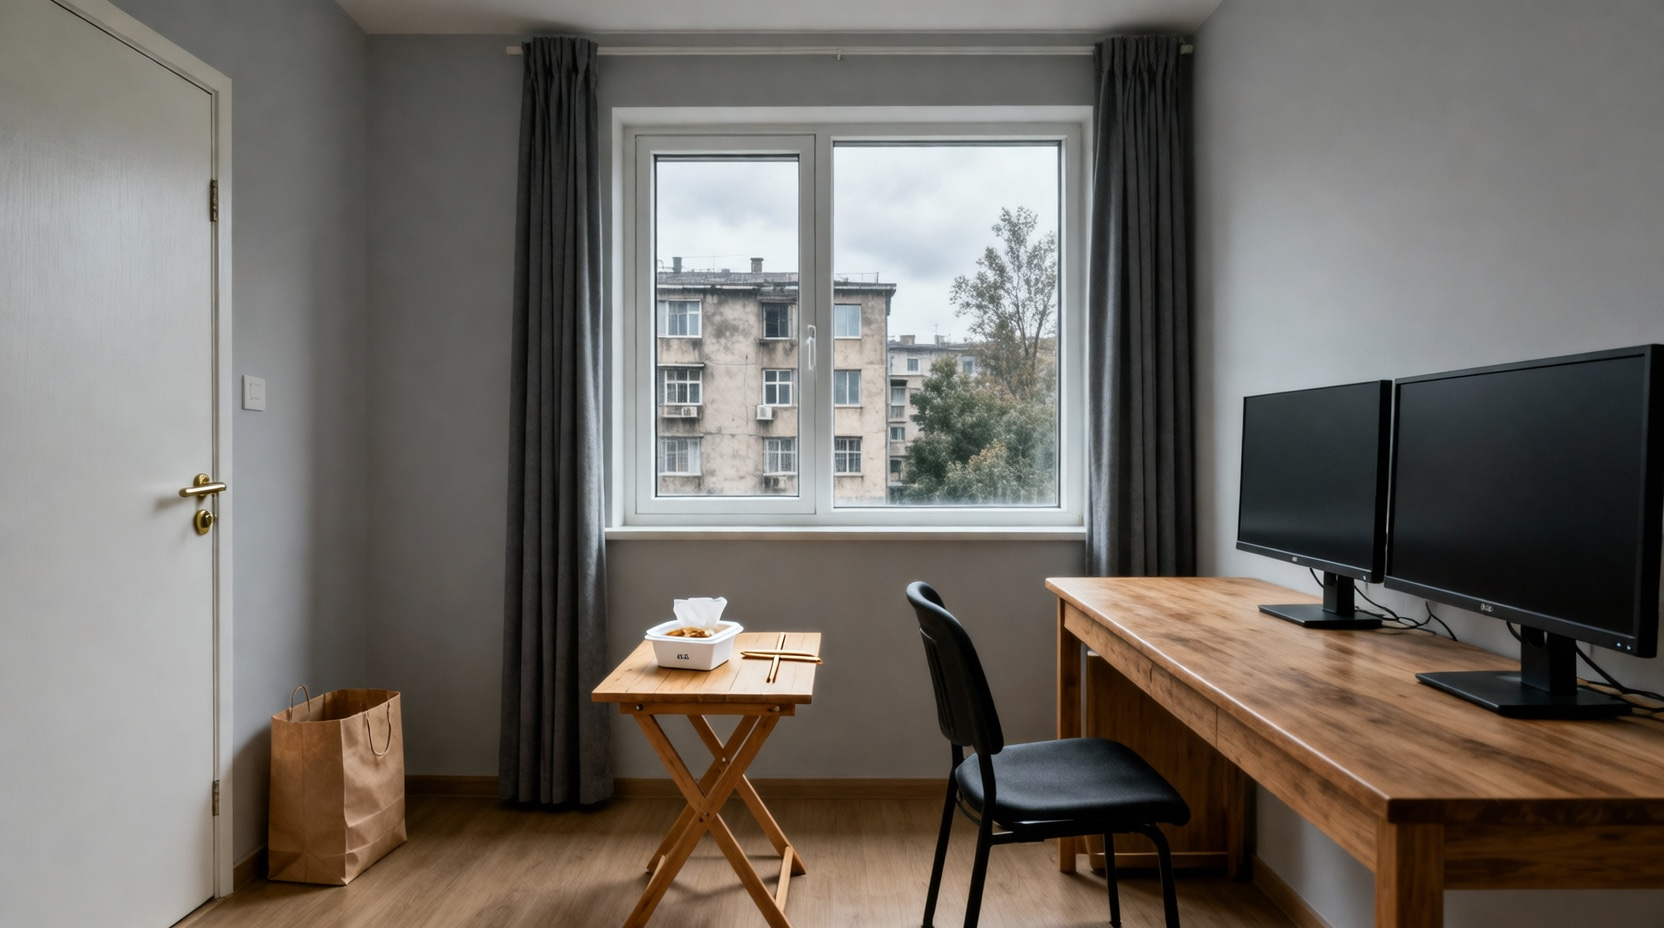
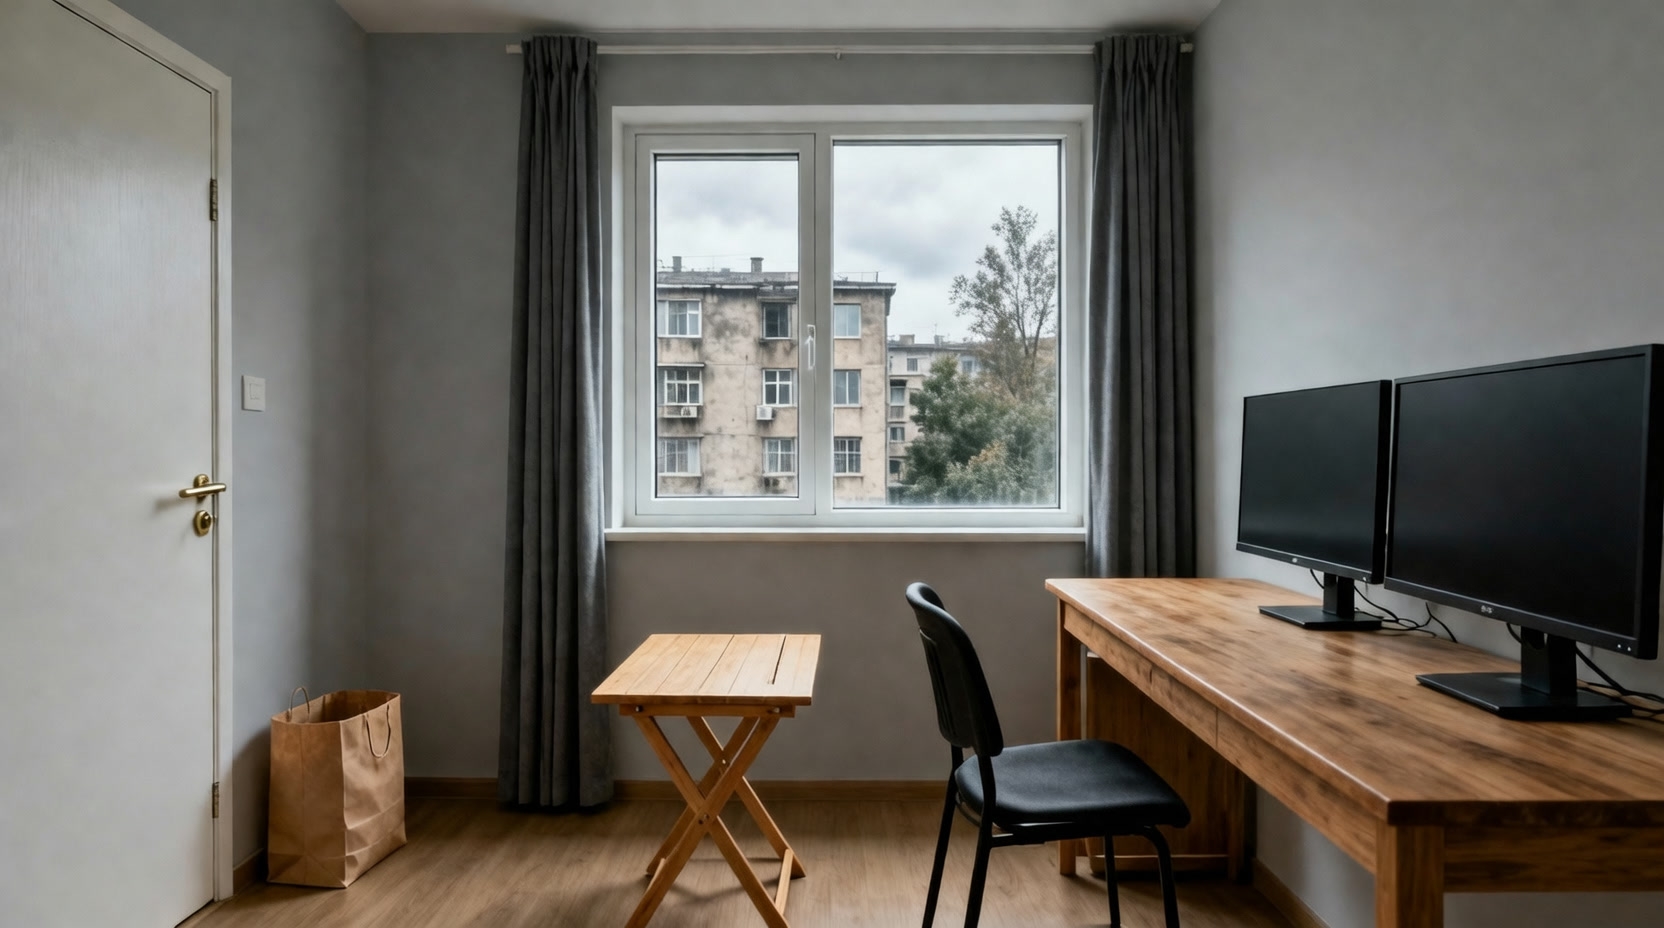
Playtest 11-05 (author, day 1): content fixes (transcript on time, no 'day four hundred', room looks, onboarding/settings strings, empty meal table) + playtest-1105 spec for Kiro; one content-only snapshot refreshed

diff --git a/.kiro/specs/playtest-1105/requirements.md b/.kiro/specs/playtest-1105/requirements.md
@@ -1,0 +1,49 @@
+# playtest-1105 — requirements (2026-11-05, the author's first real play of day 1)
+
+The author could not finish day 1. Everything below is from that play (the log: NOT-TODAY-测试问题记录-2026-11-05.docx). Every rule applies to all 18 days, not only day 1. Use mature patterns; where a number is given, use it. Content and strings are Claude's and already in the tree (listed under each item); do not edit content/ or public/.
+
+## R1. A new player can see the computer (BUG, highest)
+- Entering the computer for the first time in a run lands on the bare desktop: no app open, the dock visible (macOS desktop).
+- 工作台 opens as a normal window (chrome `window`), never full screen by default. Full screen is only what the player chooses (the green light / an existing toggle). When it is full screen the dock still slides up when the pointer is within 4 px of the bottom edge (shell R11.2 peek, as today).
+- In the 工作台 window the sidebar toggle and the tool entries (pane toggles, 老物件) are visible in the top bar at every window size ≥ 900 px wide.
+- First desktop visit of a run: one centred card, title `onboard.title`, then one row per dock app in dock order (icon 28 px + one line): `onboard.tingtalk`, `onboard.workbench`, `onboard.msgs`, `onboard.browser`, `onboard.files`; one button `onboard.ok`. Shown once per run (a session flag in the save is fine; no event). Clicking outside the card does nothing.
+
+## R2. Dialogue owns the screen (BUG)
+- While a dialogue box is up, a click anywhere on the screen advances it (Enter / Space too), and nothing under the mask receives the click. Today only a click on the card advances and clicks elsewhere reach room hotspots.
+
+## R3. Powering on, and the day's opening (JH)
+- The day's `boot` beat (content/days `beats.boot.say`) plays when the day starts in the room (waking, before the player does anything), not when the tower is switched on.
+- Switching the tower on says two lines: narration `room.boot.on`, then inner `room.boot.hint`. The two screens light (show their lit state) from that moment.
+
+## R4. Things to touch in the room (JH)
+- `content/room-looks.json` (+ `content/en/room-looks.json`, same keys and line counts; strict loader with twin check like sleeptalk): `{ _note, looks: { coat, bag, door, lock: string[] } }`.
+- New flat hotspots (rects as fractions of the facing's backdrop, x0–x1 / y0–y1):
+  - 门 (door_wall.png): coat .33–.42 / .17–.65; lock (chain + handle) .64–.70 / .31–.53; door (the leaf, minus the lock rect) .48–.69 / .02–.95; bag .69–.80 / .79–1.0.
+  - 窗 (shots/window.jpg): bag .16–.245 / .74–.95; door .00–.13 / .00–.97.
+- A click shows one random line from that key as an inner dialogue line; never the same line twice in a row for the same key. Logs nothing.
+
+## R5. The meal table (JZ)
+- `public/room/shots/window.jpg` is now an empty table (Claude replaced it): no food until today's meal is taken in, then the existing meal overlay (the ordered meal's art). Check that the overlay still sits on the table (WINDOW_SHOT.meal) and adjust the rect if it does not.
+- 窗's table gets a close view like 桌子 (click the table → a close-up of the tabletop with the meal art large; back with Esc / the back control), using the same view pattern as 桌子.
+
+## R6. Kuro in the room (UI / BUG)
+- Talking to Kuro in the room uses the same single dialogue box as everyone else: the speaker's portrait changes per line (Kuro's portrait for Kuro, none / the player's for the player). No second box.
+- Find why the room chat with Kuro only ever says "good to see you" and fix it (report the cause). If chat is locked until the day's work is done, clicking Kuro says `kuro.room.notYet` instead.
+
+## R7. The checklist (TY)
+- The day's checklist shows all task items (done rules `flag:task_*`) as one line `checklist.work` with {done}/{total}; the other items (boot, messages, box, desk, shutdown, chat, bed) stay as they are. The specific work lives in 工作台.
+
+## R8. Settings (JZ)
+- In both the in-game settings panel and the title's: `settings.restart` (clears the current run, cloud copy untouched, returns to the title) and on the title also `settings.clearAll` (clears the run and the profile: objects, album, endings; keeps language and mute). Each asks first with its confirm string and `settings.confirm` / `settings.cancel`.
+
+## R9. Title music (SY)
+- Before the first finished run (profile finishedRuns = 0) the title plays the rain bed and the instrumental `music-day`, never the sung theme. After it, the sung theme in the current language (theme_{m|f}_{zh|en}). The walkman in 老物件 keeps playing the sung theme as now.
+
+## R10. Bugs to find and fix (report each cause)
+1. The phone (iPhone on the desk / its open view) shows a white screen.
+2. Back from the computer to the room, the screen image stays visible for a moment before it goes.
+3. On 桌子, dragging any one prop (cup, phone) moves all props together, as if they were one layer. Each prop moves alone.
+4. The room turn between facings is too fast: make it 2× its current duration with ease-in-out (report old and new ms).
+
+## R11. Tests
+One or more per item: R1 first visit lands on the bare desktop with the dock and the card once; R2 a click on the mask advances and does not reach a hotspot; R3 boot beat at day start, power-on lines; R4 loader + twin + no repeat; R6 one box; R7 one work line with counts; R8 restart clears only the run, clearAll the profile; R9 title music by finishedRuns; R10 each bug.

diff --git a/.kiro/specs/playtest-1105/tasks.md b/.kiro/specs/playtest-1105/tasks.md
@@ -1,0 +1,11 @@
+# playtest-1105 — tasks
+- [ ] 1. R1 desktop, dock, onboarding
+- [ ] 2. R2 dialogue owns the screen
+- [ ] 3. R3 boot beat at day start, power-on lines
+- [ ] 4. R4 room looks
+- [ ] 5. R5 meal table + close view
+- [ ] 6. R6 Kuro in the room
+- [ ] 7. R7 checklist
+- [ ] 8. R8 settings
+- [ ] 9. R9 title music
+- [ ] 10. R10 four bugs
